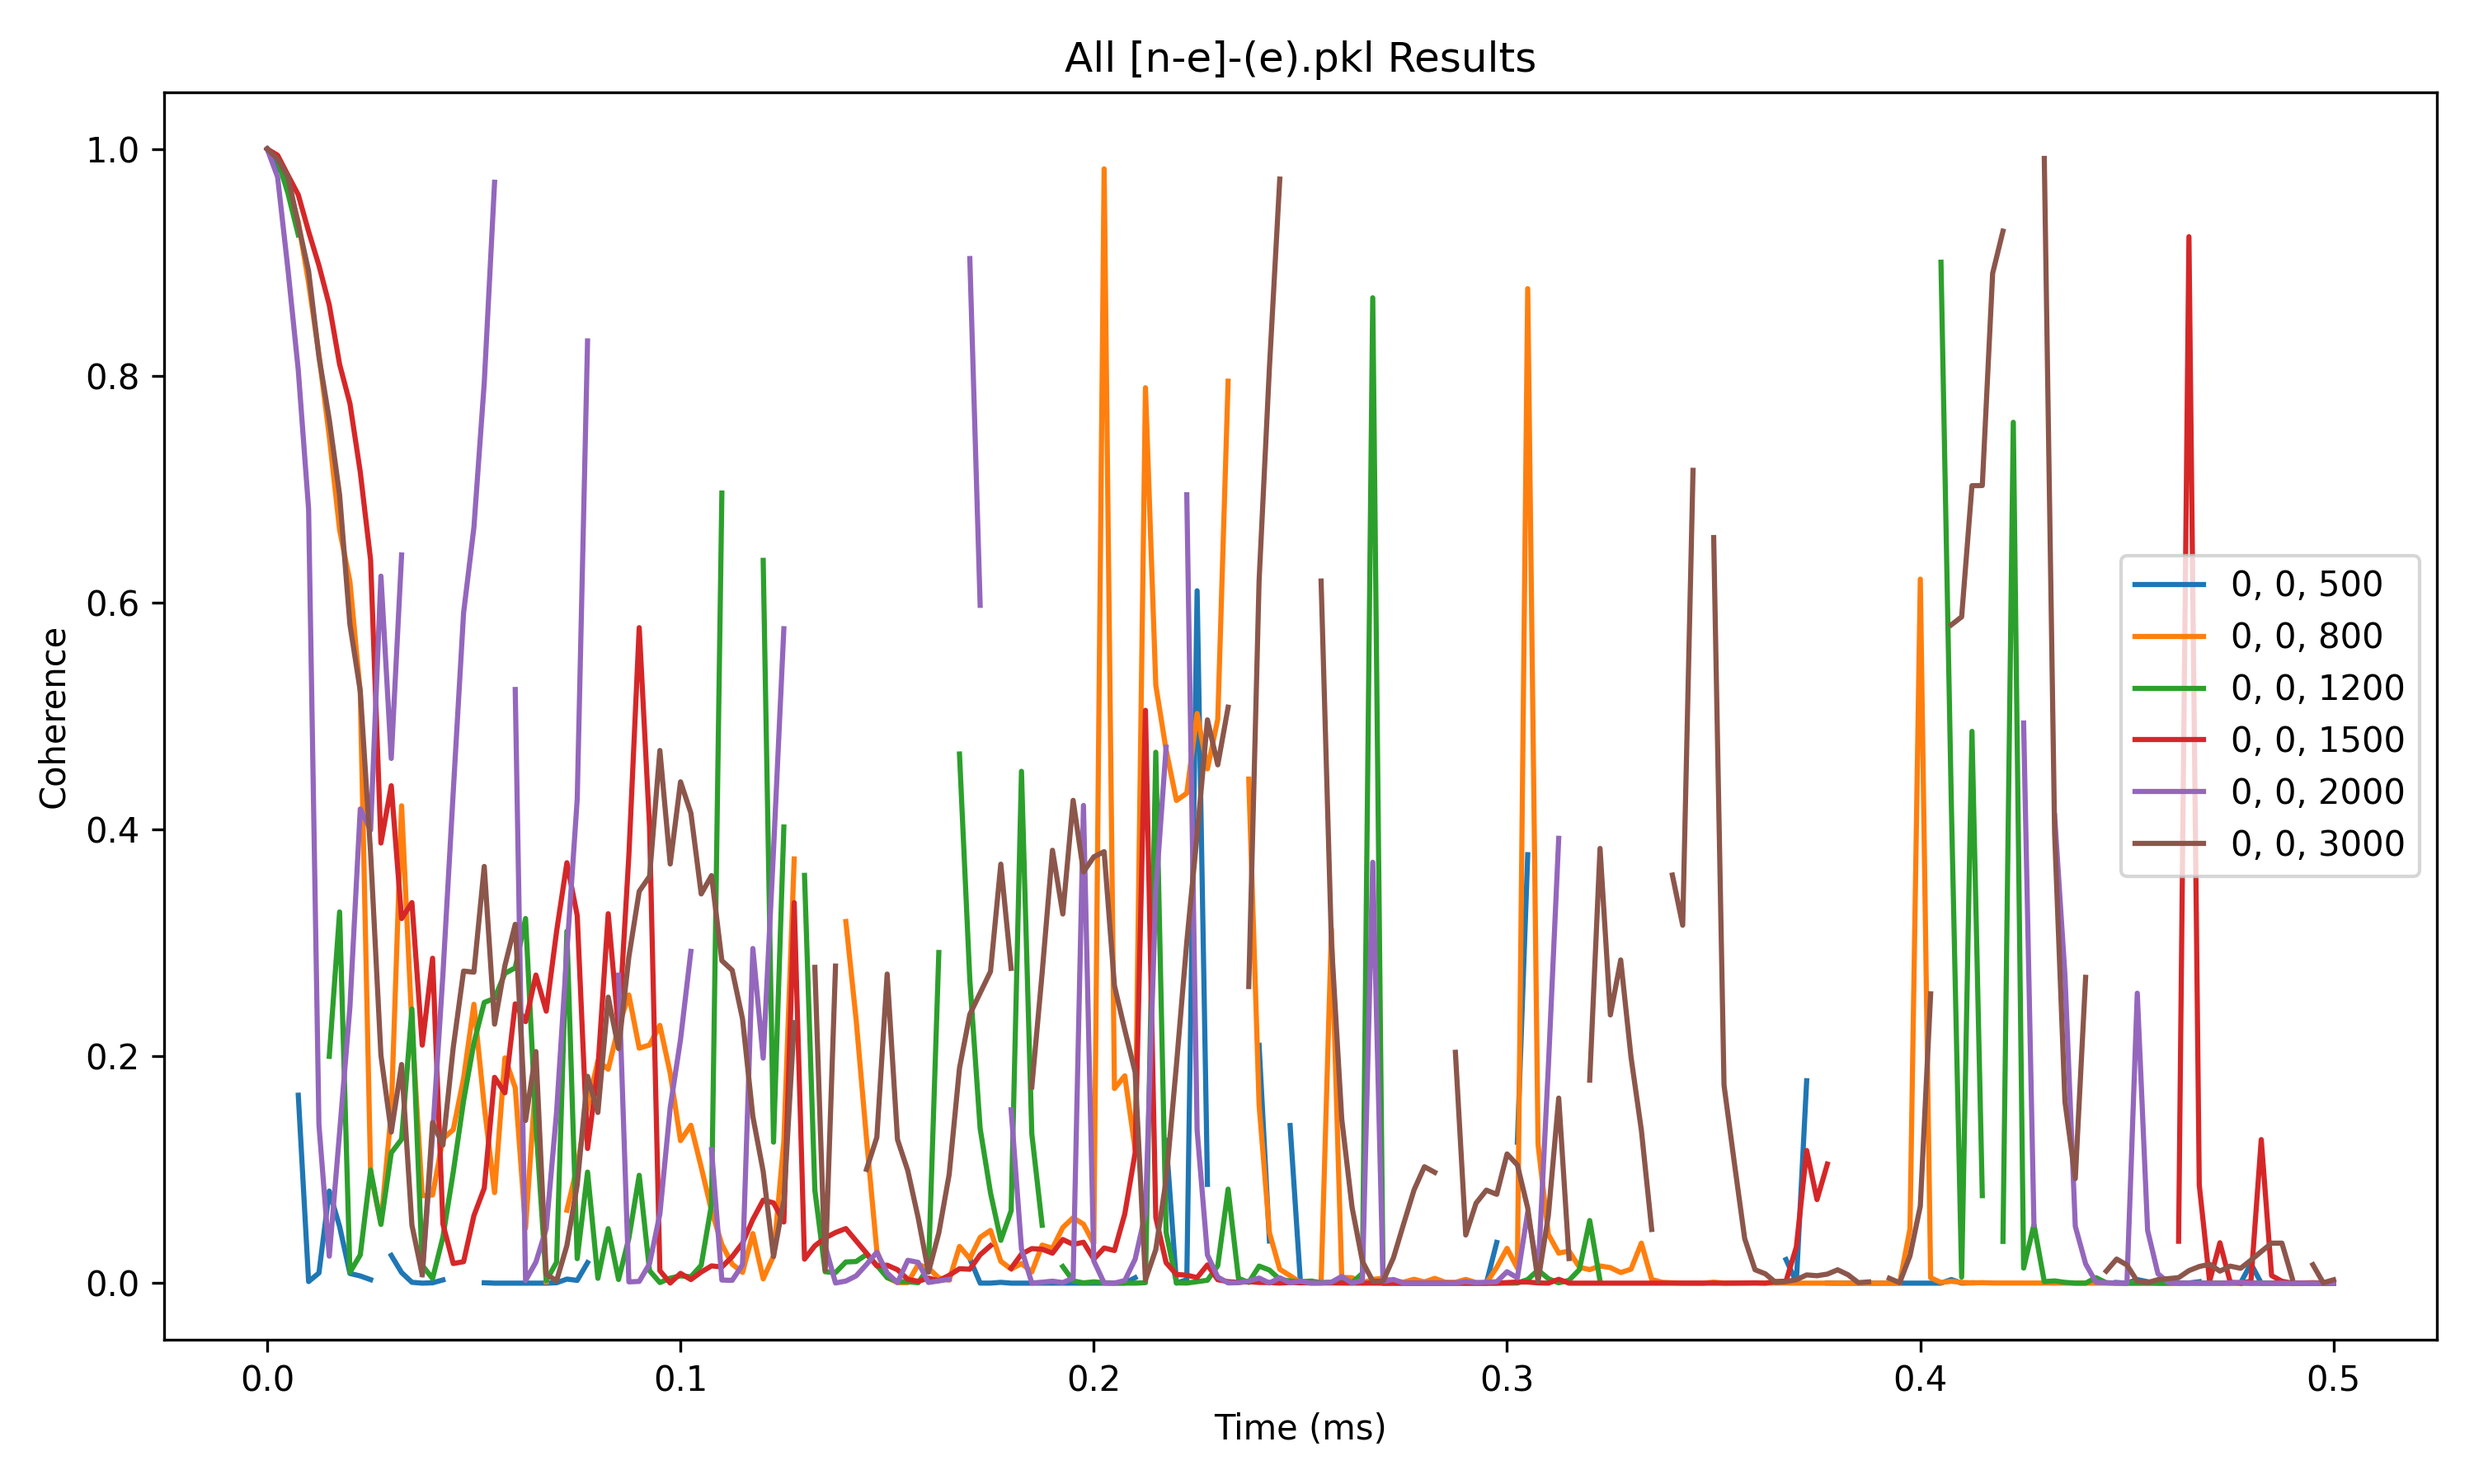
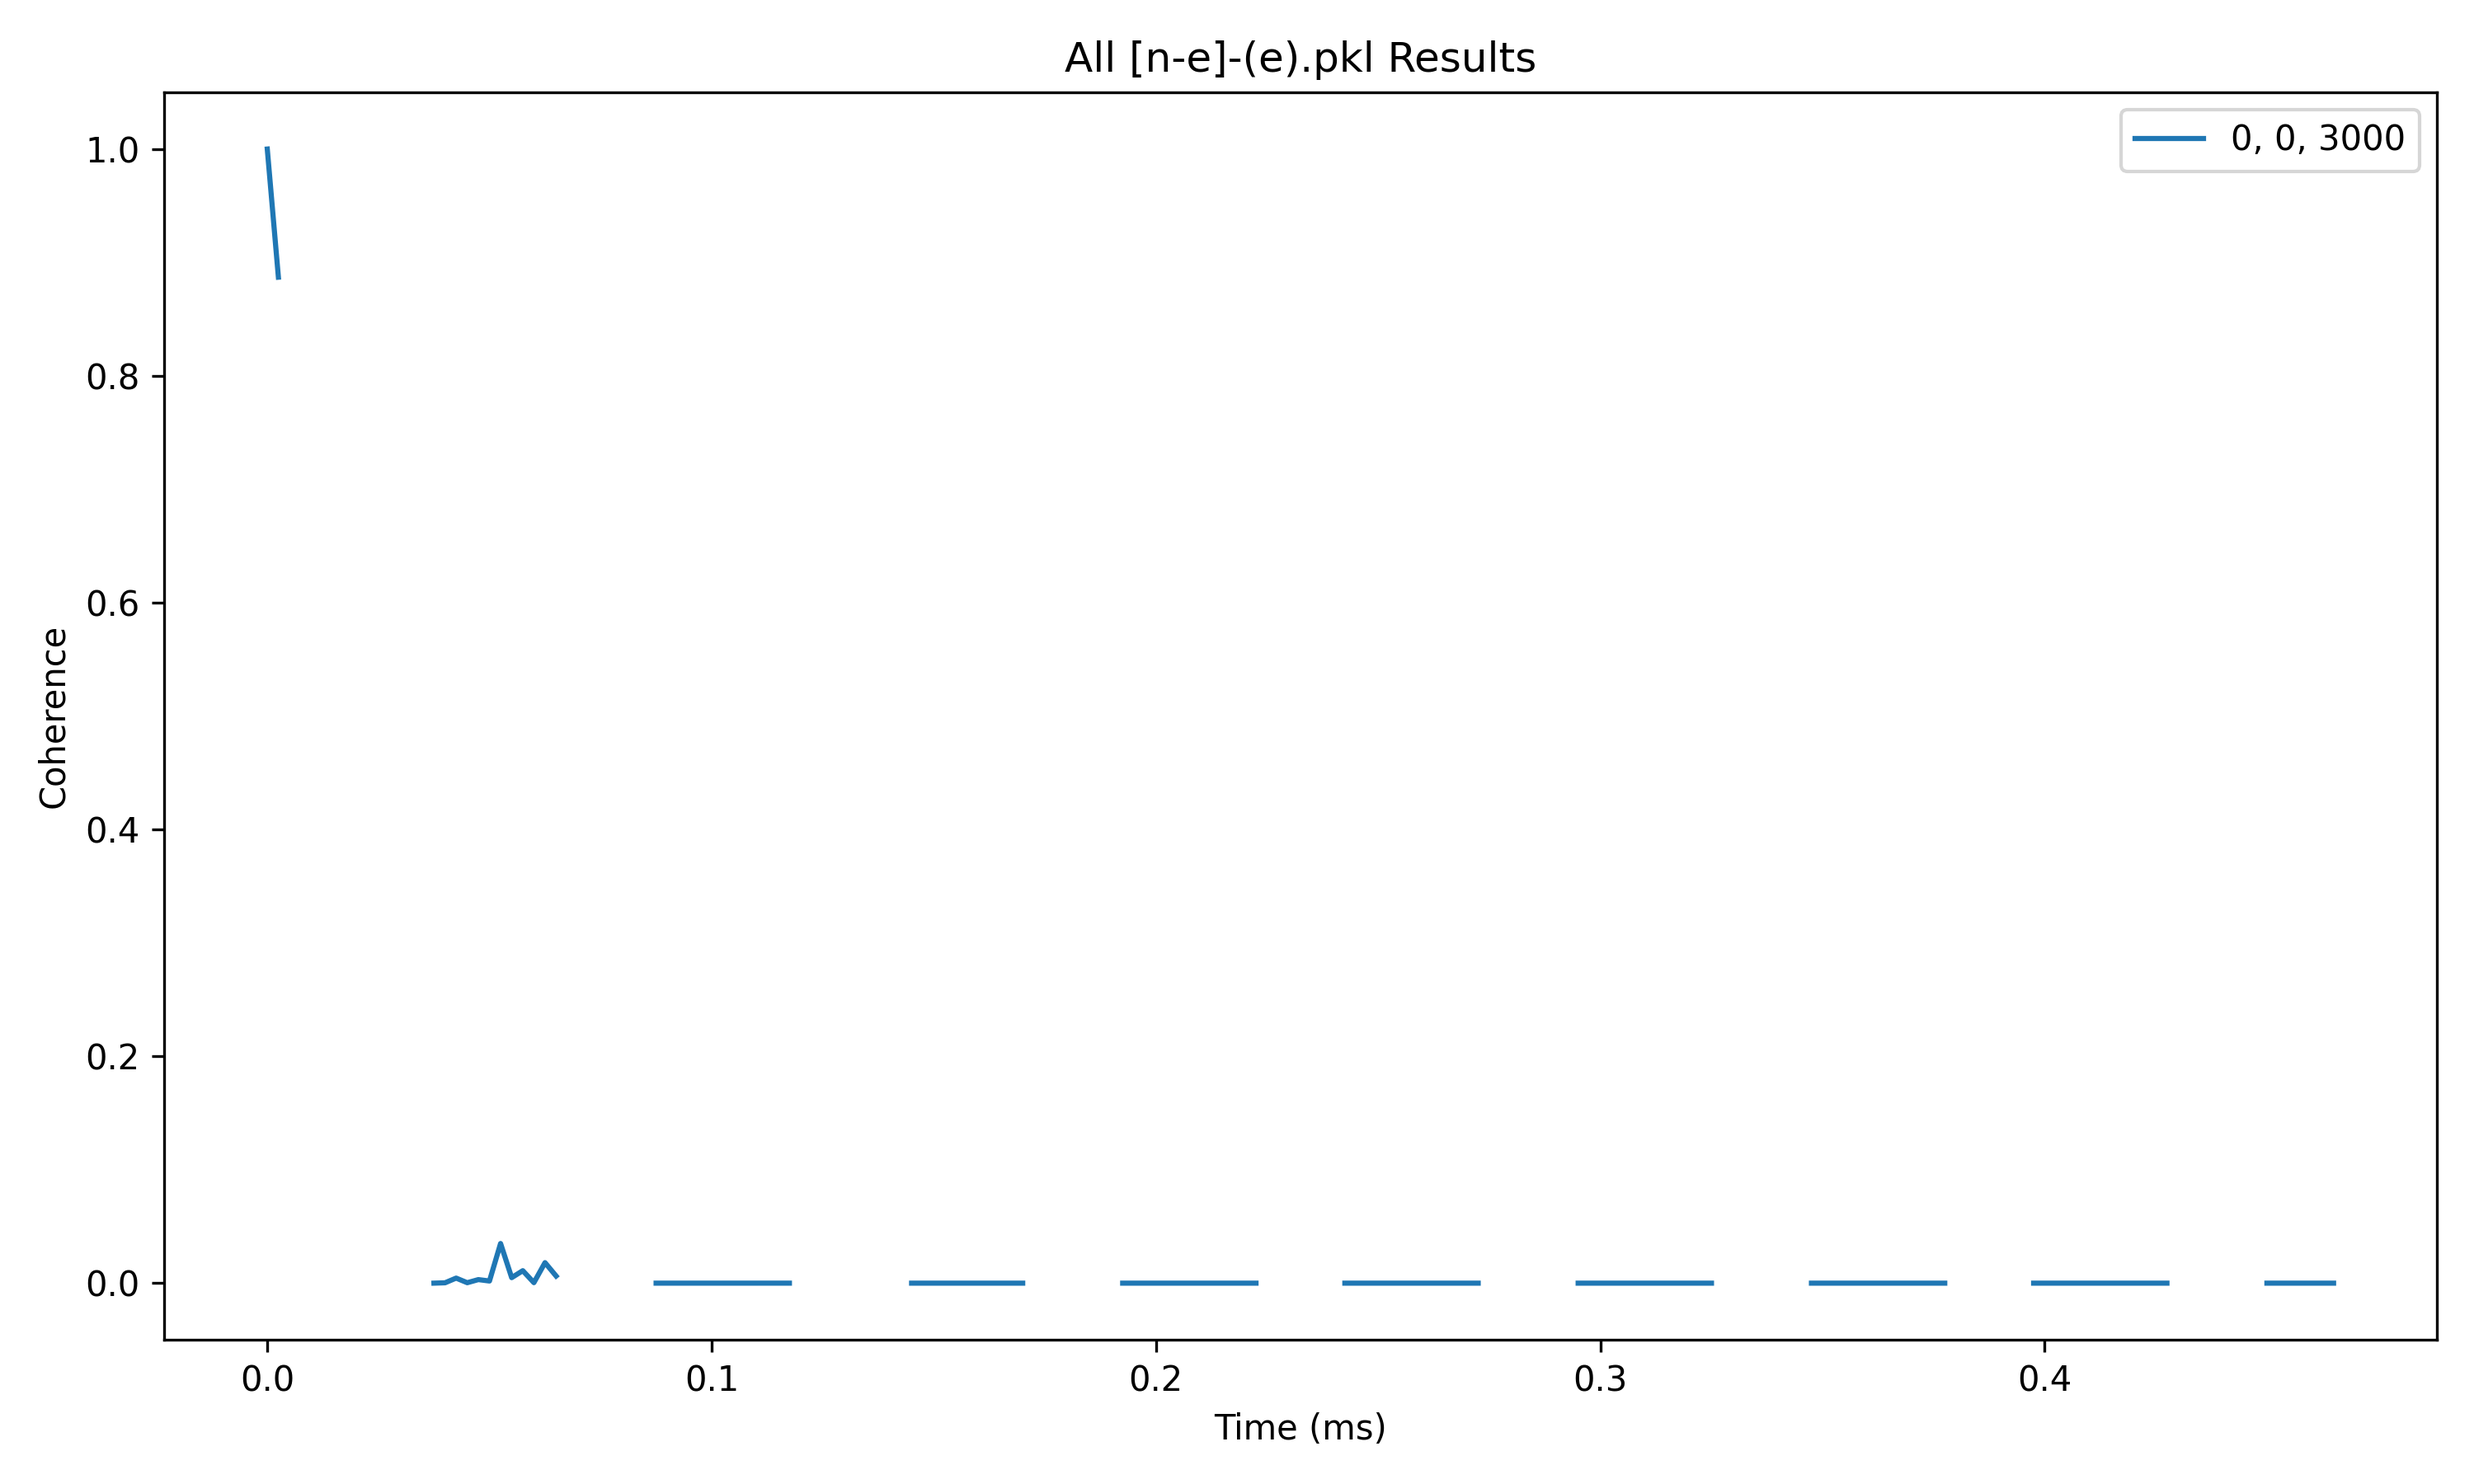
Tried with large parameters r_bath=110, r_dipole=90, just gave a lot of infs. Calc time was 5000 seconds

diff --git a/VOTPP folder/VOTPP_[n-e]-(e).py b/VOTPP folder/VOTPP_[n-e]-(e).py
@@ -230,8 +230,8 @@ default_bath_parameters = {
 
 default_simulator_parameters = { ########## These should be greater when simulating with HPC
     'order': 3, # 3
-    'r_bath': 70, # 70
-    'r_dipole': 50, # 50
+    'r_bath': 110, # 70
+    'r_dipole': 90, # 50
     'magnetic_field': [0, 0, 3000], # Magnetic field in Gauss
     'pulses': hahn_echo_sequence,
 }
@@ -245,45 +245,45 @@ magnetic_field_list = [[0, 0, 3000]] # z-direction (but with rotation matrix, it
 #####################################################################
 
 # # Runner loop for single pulse sequence ##############################################################
-# seed_list = [8000,]
-# magnetic_results = {}
-# for idx, seed in enumerate(seed_list):
-#     # Change the value of the seed in the default parameters
-#     default_bath_parameters['seed'] = seed # !!!!!!!!!!!!!!!!!!!!!!!!!!!!!!!!!!!!!!!!!!!!!!!!!!!!!!!!!!!!!!!!!!!!!!
-#     if rank == 0:
-#         print("Seed: {}".format(seed)) #!!!!!!!!!!!!!!!!!!!!!!!!!!!!!!!!!!!!!!!!!!!!!!!!!!!!!!!!!!!!!!!!!!!!!!
+seed_list = [8000,]
+magnetic_results = {}
+for idx, seed in enumerate(seed_list):
+    # Change the value of the seed in the default parameters
+    default_bath_parameters['seed'] = seed # !!!!!!!!!!!!!!!!!!!!!!!!!!!!!!!!!!!!!!!!!!!!!!!!!!!!!!!!!!!!!!!!!!!!!!
+    if rank == 0:
+        print("Seed: {}".format(seed)) #!!!!!!!!!!!!!!!!!!!!!!!!!!!!!!!!!!!!!!!!!!!!!!!!!!!!!!!!!!!!!!!!!!!!!!
 
-#         # Start timer
-#         start = time.time()
+        # Start timer
+        start = time.time()
 
-#     # # Change the value of the r_bath in the default parameters
-#     # default_simulator_parameters['r_bath'] = r_bath_conc_list[idx]
+    # # Change the value of the r_bath in the default parameters
+    # default_simulator_parameters['r_bath'] = r_bath_conc_list[idx]
 
 
 
-#     magnetic_results[seed] = runner(
-#                         concentration_value=default_bath_parameters['concentration'],
-#                         # concentration_value=seed, # !!!!!!!!!!!!!!!!!!!!!!!!!!!!!!!!!!!!!!!!!!!!!!!!!!!!!!!!!!!!!!!!!!!!!!
-#                         changing_variable='magnetic_field', variable_values=magnetic_field_list,
-#                         num_spins=2, #spin_type='nuclear',
-#                         alpha = 4, #
-#                         beta = 5, #
-#                         bath_parameters=default_bath_parameters, simulator_parameters=default_simulator_parameters, calc_parameters=default_calc_parameters,
-#                         # changing_variable2='r_bath', variable_values2=r_bath_conc_list,
-#                         )
+    magnetic_results[seed] = runner(
+                        concentration_value=default_bath_parameters['concentration'],
+                        # concentration_value=seed, # !!!!!!!!!!!!!!!!!!!!!!!!!!!!!!!!!!!!!!!!!!!!!!!!!!!!!!!!!!!!!!!!!!!!!!
+                        changing_variable='magnetic_field', variable_values=magnetic_field_list,
+                        num_spins=2, #spin_type='nuclear',
+                        alpha = 4, #
+                        beta = 5, #
+                        bath_parameters=default_bath_parameters, simulator_parameters=default_simulator_parameters, calc_parameters=default_calc_parameters,
+                        # changing_variable2='r_bath', variable_values2=r_bath_conc_list,
+                        )
     
-#     if rank == 0:
-#         # Print time
-#         end = time.time()
-#         print("Time taken: {} seconds".format(end - start))
+    if rank == 0:
+        # Print time
+        end = time.time()
+        print("Time taken: {} seconds".format(end - start))
 
-#     # Save the current state of results
-#     with open((str(path) + f'magnetic_results_{idx}.pkl'), 'wb') as f:
-#         pickle.dump(magnetic_results, f)
+    # Save the current state of results
+    with open((str(path) + f'magnetic_results_{idx}.pkl'), 'wb') as f:
+        pickle.dump(magnetic_results, f)
 
-# if rank == 0:
-#     with open((str(path) + '[n-e]-(e).pkl'), 'wb') as f:
-#         pickle.dump(magnetic_results, f)
+if rank == 0:
+    with open((str(path) + '[n-e]-(e).pkl'), 'wb') as f:
+        pickle.dump(magnetic_results, f)
 
 #####################################################################
 
@@ -317,69 +317,69 @@ magnetic_field_list = [[0, 0, 3000]] # z-direction (but with rotation matrix, it
     
 # print("Order results done")
 
-r_bath_results = {}
-for idx, conc in enumerate(concentration_list):
-    if rank == 0:
-        # Start timer
-        start = time.time()
+# r_bath_results = {}
+# for idx, conc in enumerate(concentration_list):
+#     if rank == 0:
+#         # Start timer
+#         start = time.time()
 
-    r_bath_results[conc] = runner(
-                        concentration_value=conc,
-                        changing_variable='r_bath', variable_values=r_bath_list,
-                        num_spins=2, #spin_type='nuclear',
-                        alpha= 4,
-                        beta=  5,
-                        bath_parameters=default_bath_parameters, simulator_parameters=default_simulator_parameters, calc_parameters=default_calc_parameters,
-                        # changing_variable2='timespace', variable_values2=timespace_list,
-                        )
+#     r_bath_results[conc] = runner(
+#                         concentration_value=conc,
+#                         changing_variable='r_bath', variable_values=r_bath_list,
+#                         num_spins=2, #spin_type='nuclear',
+#                         alpha= 4,
+#                         beta=  5,
+#                         bath_parameters=default_bath_parameters, simulator_parameters=default_simulator_parameters, calc_parameters=default_calc_parameters,
+#                         # changing_variable2='timespace', variable_values2=timespace_list,
+#                         )
     
-    if rank == 0:
-        # Print time
-        end = time.time()
-        print("Time taken: {} seconds".format(end - start))
+#     if rank == 0:
+#         # Print time
+#         end = time.time()
+#         print("Time taken: {} seconds".format(end - start))
     
-    # Save the current state of results
-    with open((str(path) + f'r_bath_results_{idx}.pkl'), 'wb') as f:
-        pickle.dump(r_bath_results, f)
+#     # Save the current state of results
+#     with open((str(path) + f'r_bath_results_{idx}.pkl'), 'wb') as f:
+#         pickle.dump(r_bath_results, f)
 
-if rank == 0:
-    with open((str(path) + '[n-e]-(e)_r_bath_order3_results.pkl'), 'wb') as f:
-        pickle.dump(r_bath_results, f)
+# if rank == 0:
+#     with open((str(path) + '[n-e]-(e)_r_bath_order3_results.pkl'), 'wb') as f:
+#         pickle.dump(r_bath_results, f)
 
-    print("r_bath results done")
+#     print("r_bath results done")
         
 
 
 
-r_dipole_results = {}
-for idx, conc in enumerate(concentration_list):
-    if rank == 0:
-        # Start timer
-        start = time.time()
+# r_dipole_results = {}
+# for idx, conc in enumerate(concentration_list):
+#     if rank == 0:
+#         # Start timer
+#         start = time.time()
 
-    r_dipole_results[conc] = runner(concentration_value=conc,
-                        changing_variable='r_dipole', variable_values=r_dipole_list,
-                        num_spins=2, #spin_type='nuclear',
-                        alpha= 4,
-                        beta=  5,
-                        bath_parameters=default_bath_parameters, simulator_parameters=default_simulator_parameters, calc_parameters=default_calc_parameters,
-                        # changing_variable2='timespace', variable_values2=timespace_list,
-                        )
+#     r_dipole_results[conc] = runner(concentration_value=conc,
+#                         changing_variable='r_dipole', variable_values=r_dipole_list,
+#                         num_spins=2, #spin_type='nuclear',
+#                         alpha= 4,
+#                         beta=  5,
+#                         bath_parameters=default_bath_parameters, simulator_parameters=default_simulator_parameters, calc_parameters=default_calc_parameters,
+#                         # changing_variable2='timespace', variable_values2=timespace_list,
+#                         )
     
-    if rank == 0:
-        # Print time
-        end = time.time()
-        print("Time taken: {} seconds".format(end - start))
+#     if rank == 0:
+#         # Print time
+#         end = time.time()
+#         print("Time taken: {} seconds".format(end - start))
 
-    # Save the current state of results
-    with open((str(path) + f'r_dipole_results_{idx}.pkl'), 'wb') as f:
-        pickle.dump(r_dipole_results, f)
+#     # Save the current state of results
+#     with open((str(path) + f'r_dipole_results_{idx}.pkl'), 'wb') as f:
+#         pickle.dump(r_dipole_results, f)
 
-if rank == 0:
-    with open((str(path) + '[n-e]-(e)_r_dipole_order3_results.pkl'), 'wb') as f:
-        pickle.dump(r_dipole_results, f)
+# if rank == 0:
+#     with open((str(path) + '[n-e]-(e)_r_dipole_order3_results.pkl'), 'wb') as f:
+#         pickle.dump(r_dipole_results, f)
 
-    print("r_dipole results done")
+#     print("r_dipole results done")
 
 
 #####################################################################
